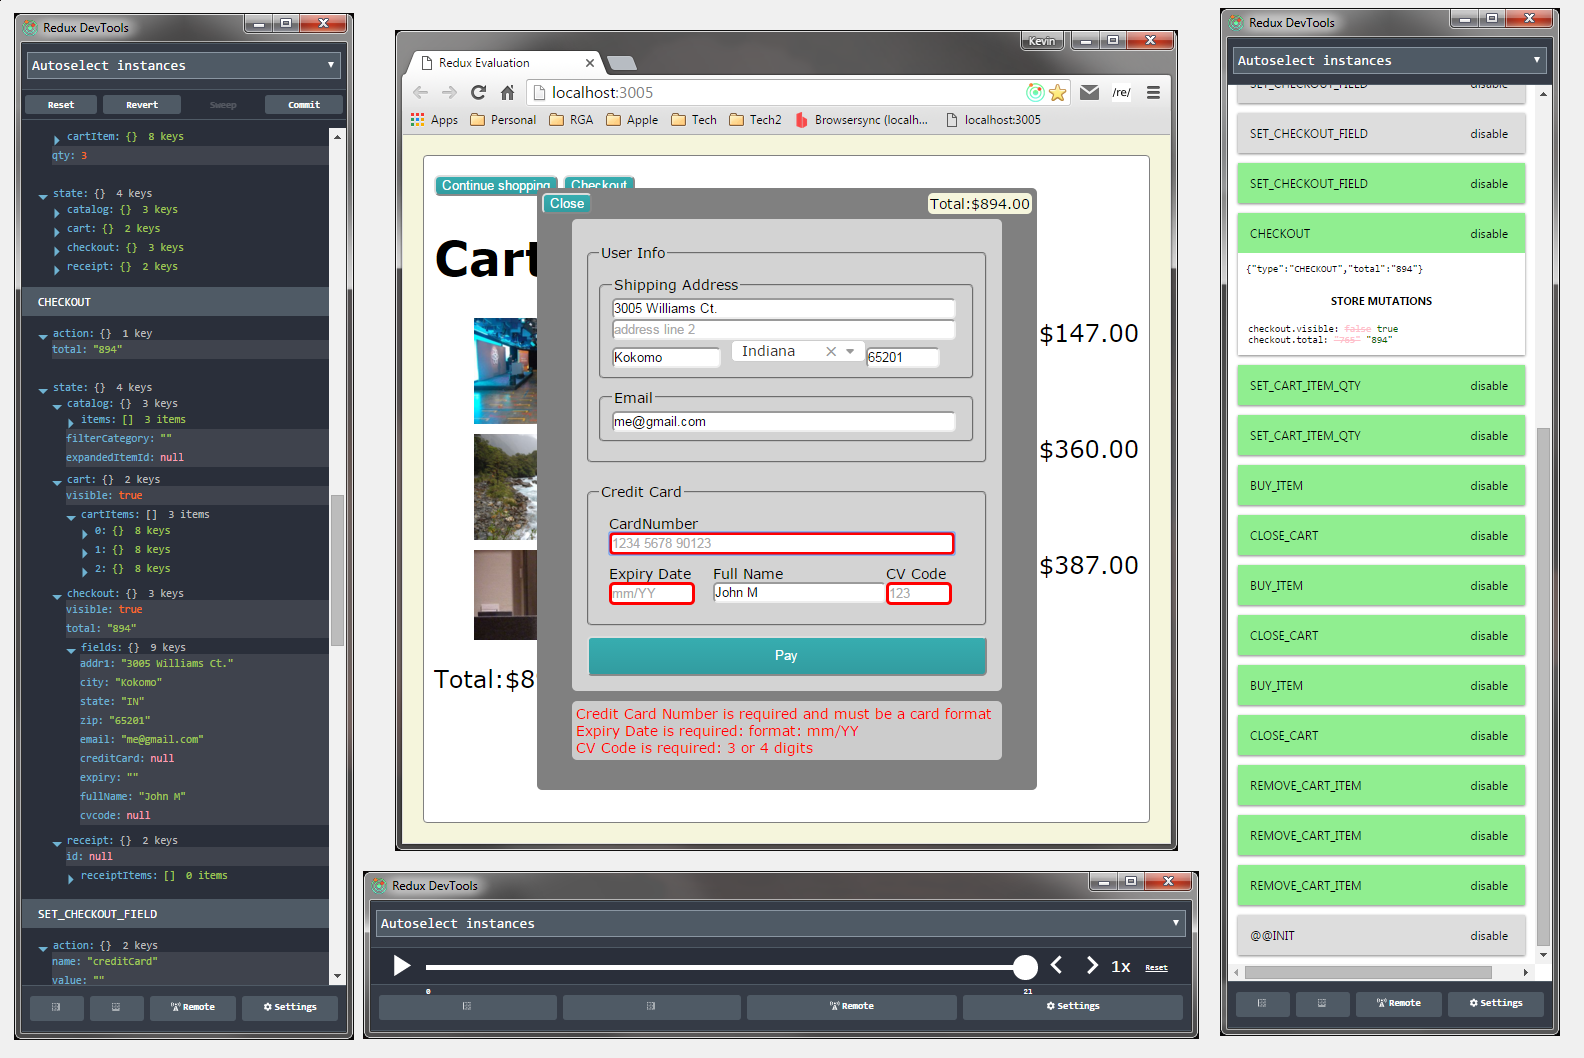
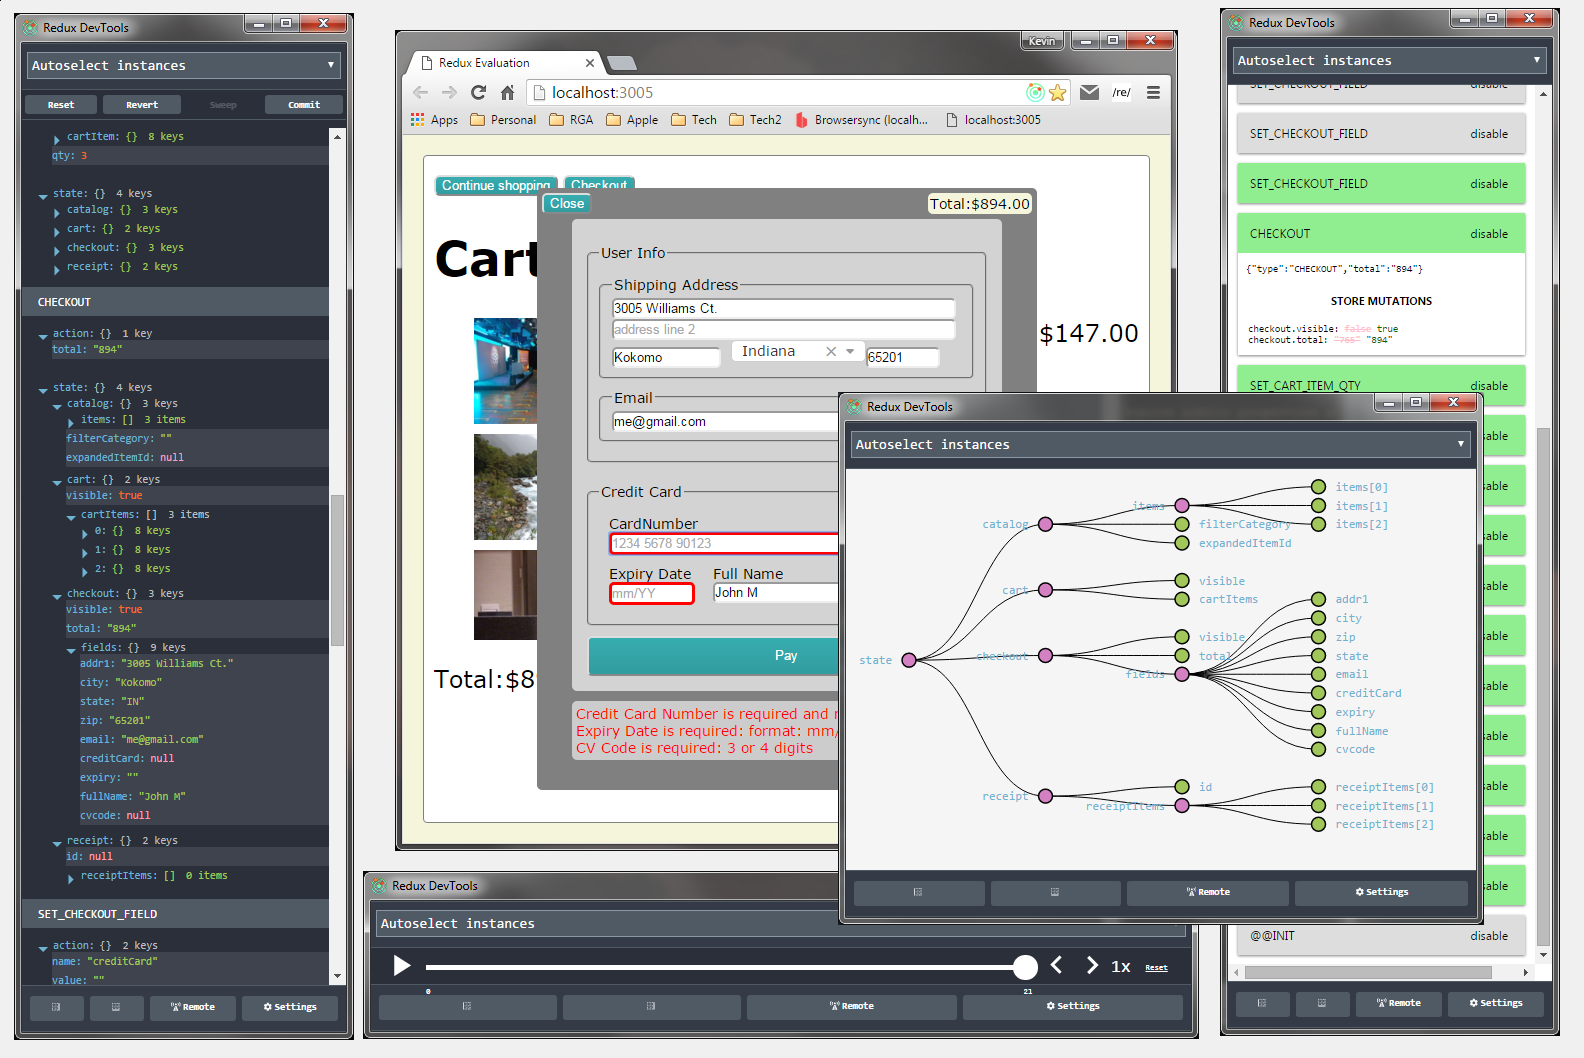
update readme (play with src links) and image (kool state graph)

Changed region(s): [[0.5259, 0.3431, 0.959, 0.8733]]

diff --git a/README.md b/README.md
@@ -90,8 +90,8 @@ The complete specification of our app state is shown here.
 }
 ```
 
-Please notice that structural depth is maintained to emphasize
-ownership.  That is contrast to the original (non Redux)
+**Please notice that structural depth is maintained to emphasize
+ownership!**  That is contrast to the original (non Redux)
 implementation:
 
 ```javascript
@@ -331,6 +331,8 @@ If you doubt me, I would challenge you to simply look at the
 before/after ??old/new-LINK src (from the two branches of this
 exercise).
 
-- for starters, look at the bootstrap process ... browser.jsx
-  (before/after) ??old/new link
-- then look at the top-level app.js source (before/after) ??old/new link
+- for starters, look at the bootstrap process ... [browser.jsx](blob/master/src/browser.jsx)
+  ([before](blob/PlainReact/src/browser.jsx)/[after](blob/ReduxReact/src/browser.jsx))
+
+- then look at the top-level [app.jsx](blob/master/src/comp/app.jsx) source 
+  ([before](blob/PlainReact/src/comp/app.jsx)/[after](blob/ReduxReact/src/comp/app.jsx))
